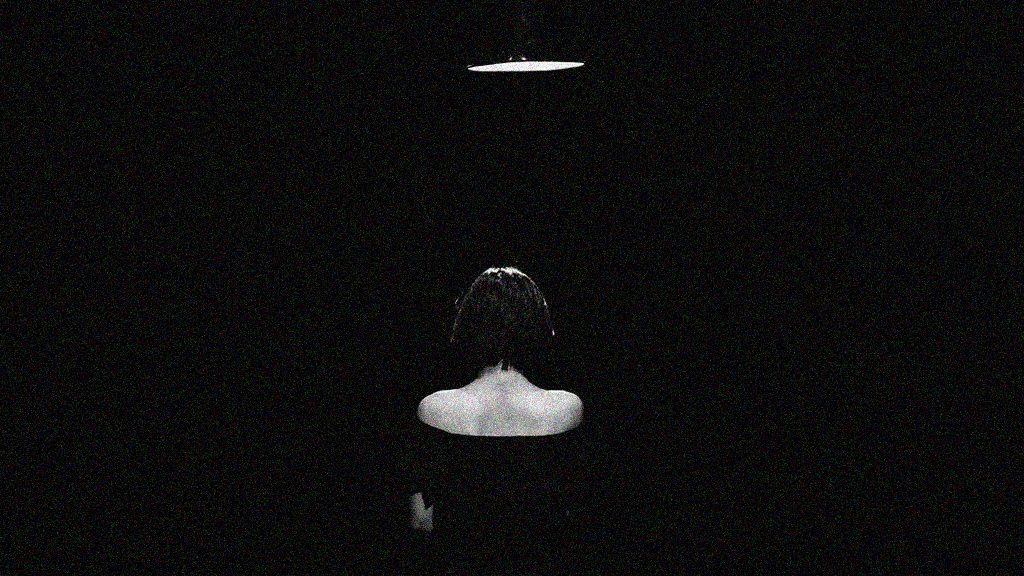
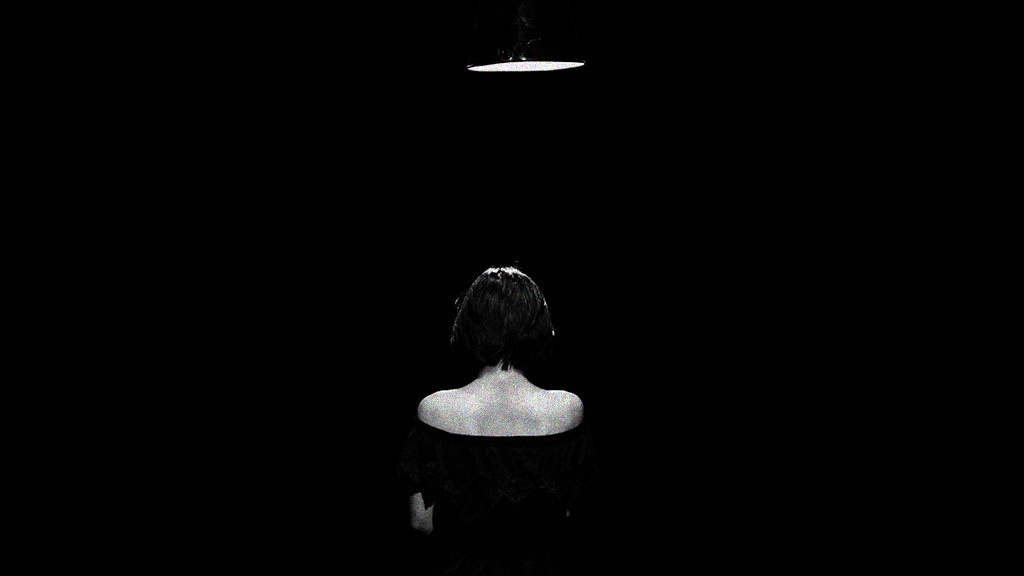
The method 'addPoissonNoise' was added

Changed region(s): [[0.0, 0.0, 1.0, 1.0]]

diff --git a/src/DIP.py b/src/DIP.py
@@ -114,3 +114,10 @@ def GaussianFilterThreeChannelsImages(img, kernel_size: int = 3, sigma: float = 
 def addGaussianNoise(img, a: float = 0, sigma: float = 1):
     noise = np.random.normal(loc=a, scale=sigma, size=img.shape)
     return np.clip(img + noise, 0, 255).astype('uint8')
+
+def addPoissonNoise(img, epp: float): # electorns per pixel
+    tmp = img.astype('float64') / 255 * epp # brightness is proportional to the number of captured photons
+    noise = np.random.poisson(lam=tmp)
+    
+    return np.clip(noise / epp * 255, 0, 255).astype('uint8')
+

diff --git a/src/program.py b/src/program.py
@@ -5,9 +5,9 @@ import DIP
 
 def main() -> None:
     img = cv2.imread('imgs/income.jpg')
-    res = DIP.addGaussianNoise(img, a=0, sigma=25)
+    res = DIP.addPoissonNoise(img, epp=100)
     cv2.imwrite('imgs/noise.jpg', res) 
-    res = DIP.GaussianFilterThreeChannelsImages(res, kernel_size=3, sigma=25)
+    res = DIP.GaussianFilterThreeChannelsImages(res, kernel_size=3, sigma=10)
     cv2.imwrite('imgs/outcome.jpg', res) 
     print('Hello, world!')
     
